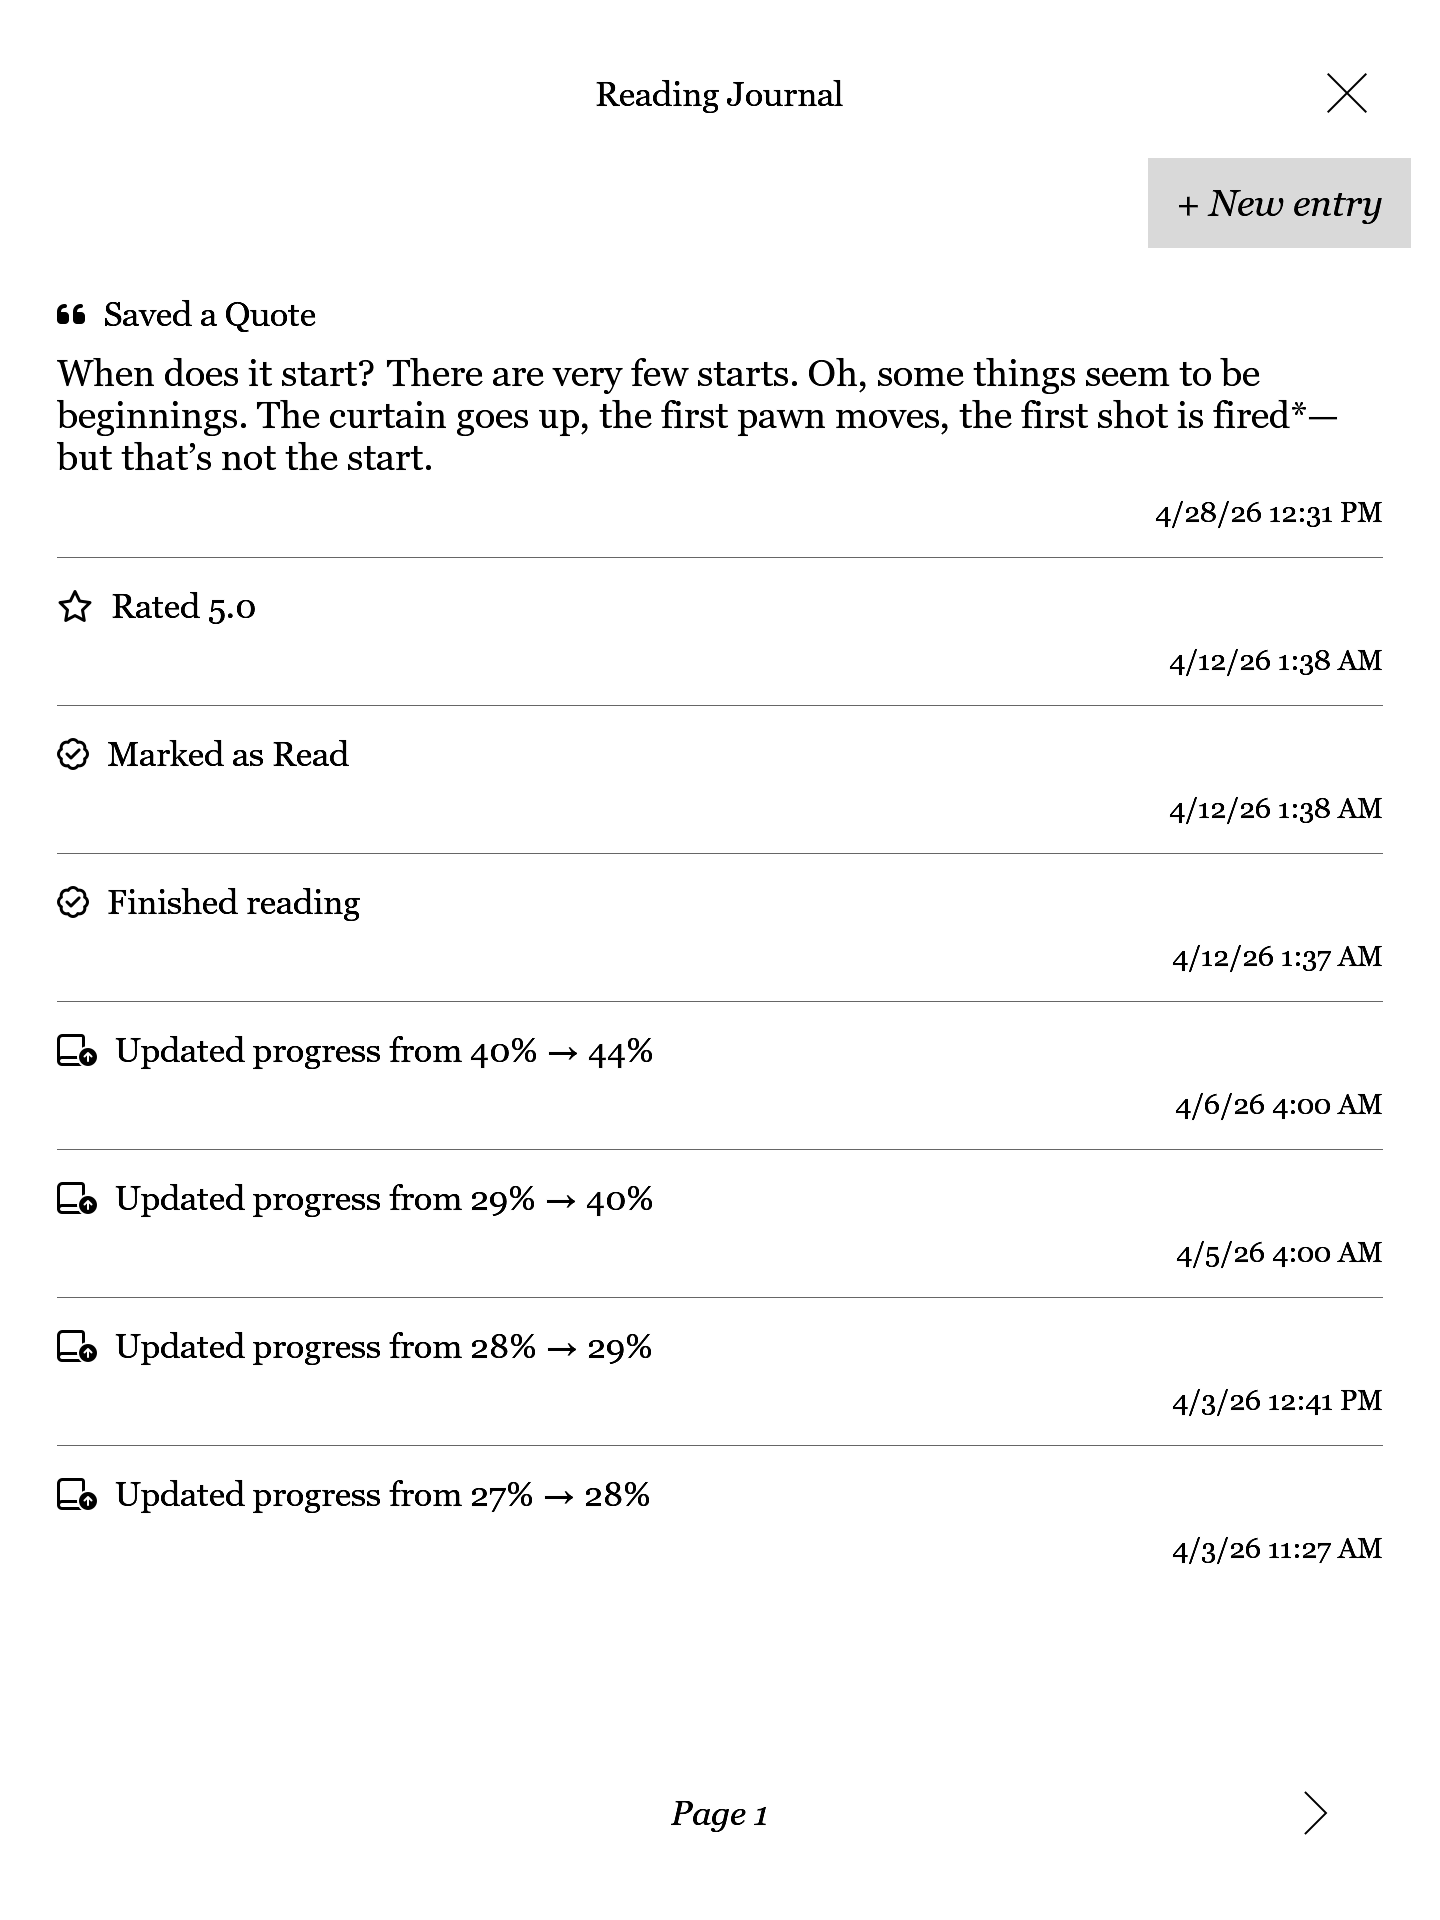
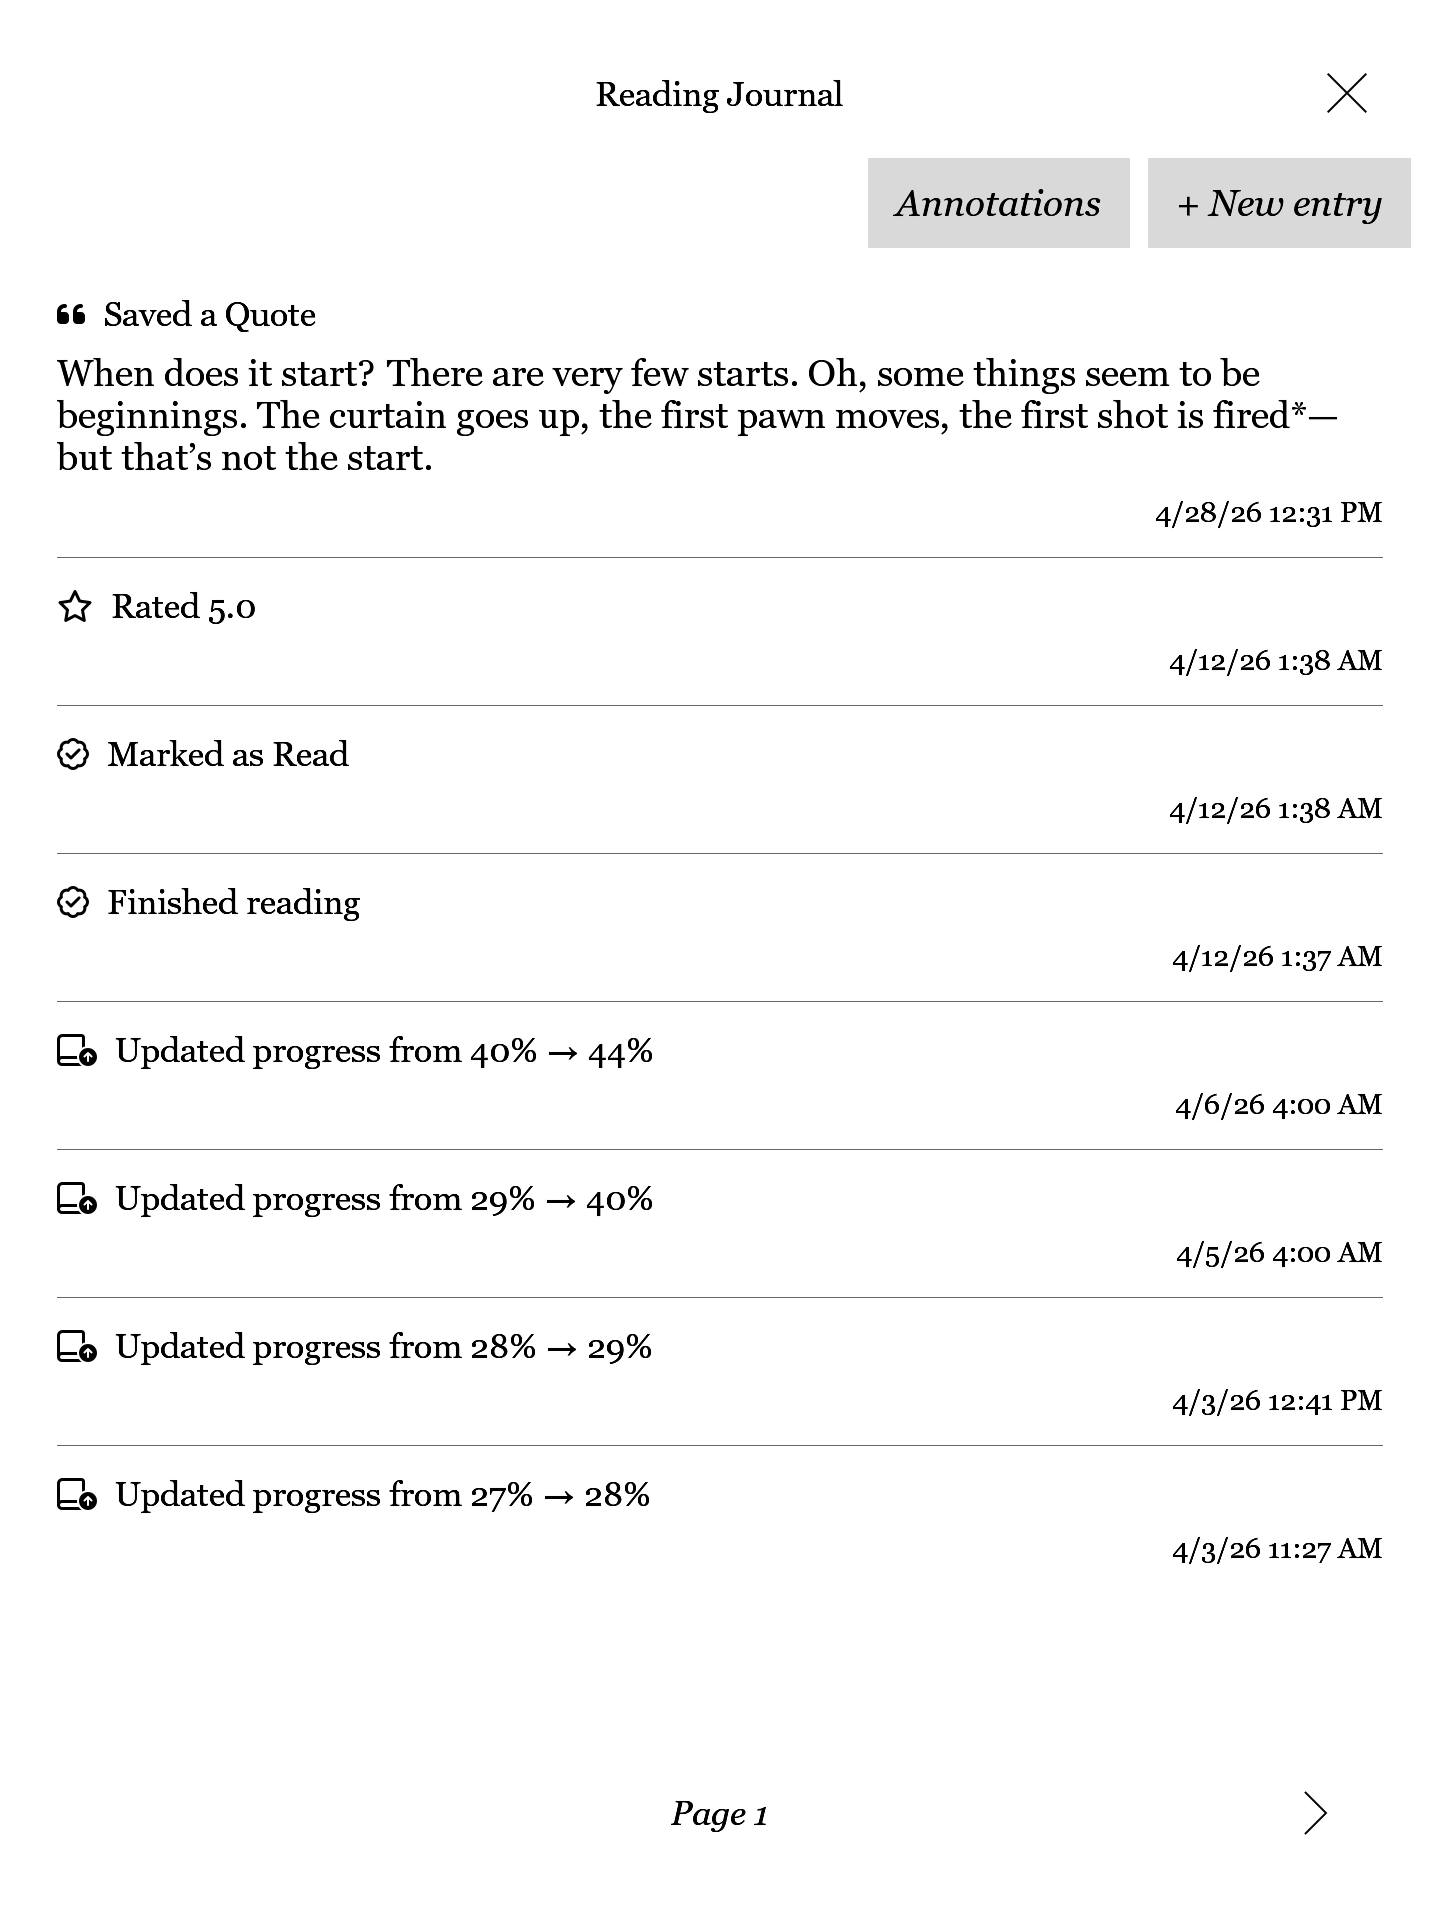
Update README.md

Changed region(s): [[0.5938, 0.0625, 0.8125, 0.1562]]

diff --git a/README.md b/README.md
@@ -13,8 +13,8 @@ Thanks to **pgaskin** for the [NickelHook](https://github.com/pgaskin/NickelHook
 
 **Warning: Firmware version 5.x is not supported yet.**
 
-<img src="https://codeberg.org/StrayRose/NickelHardcover/raw/branch/main/screenshots/syncing.png" alt="Syncing with hardcover tooltip" width="32%"> <img src="https://codeberg.org/StrayRose/NickelHardcover/raw/branch/main/screenshots/review.png" alt="Review dialog" width="32%"> <img src="https://codeberg.org/StrayRose/NickelHardcover/raw/branch/main/screenshots/journal.png" alt="Reading journal dialog" width="32%">
-<img src="https://codeberg.org/StrayRose/NickelHardcover/raw/branch/main/screenshots/menu.png?" alt="NickelHardcover menu" width="24%"> <img src="https://codeberg.org/StrayRose/NickelHardcover/raw/branch/main/screenshots/status.png" alt="Reading status menu" width="24%"> <img src="https://codeberg.org/StrayRose/NickelHardcover/raw/branch/main/screenshots/linking.png" alt="Manually linking dialog" width="24%"> <img src="https://codeberg.org/StrayRose/NickelHardcover/raw/branch/main/screenshots/settings.png" alt="Settings dialog" width="24%">
+<img src="https://codeberg.org/StrayRose/NickelHardcover/raw/branch/main/screenshots/syncing.png" alt="Syncing with hardcover" width="24%"> <img src="https://codeberg.org/StrayRose/NickelHardcover/raw/branch/main/screenshots/review.png" alt="Reviewing book" width="24%"> <img src="https://codeberg.org/StrayRose/NickelHardcover/raw/branch/main/screenshots/journal.png" alt="Reading journal" width="24%"> <img src="https://codeberg.org/StrayRose/NickelHardcover/raw/branch/main/screenshots/new-journal.png" alt="New reading journal note" width="24%">
+<img src="https://codeberg.org/StrayRose/NickelHardcover/raw/branch/main/screenshots/menu.png?" alt="NickelHardcover menu" width="20%"> <img src="https://codeberg.org/StrayRose/NickelHardcover/raw/branch/main/screenshots/status.png" alt="Reading status menu" width="20%"> <img src="https://codeberg.org/StrayRose/NickelHardcover/raw/branch/main/screenshots/linking.png" alt="Manually linking book" width="20%"> <img src="https://codeberg.org/StrayRose/NickelHardcover/raw/branch/main/screenshots/linking-edition.png" alt="Manually linking edition" width="20%"> <img src="https://codeberg.org/StrayRose/NickelHardcover/raw/branch/main/screenshots/settings.png" alt="Settings" width="24%">
 
 ## Features
 
@@ -95,9 +95,7 @@ While a book is open, you should find a new menu on the top right where all the 
 
 ### Linking a Hardcover book
 
-NickelHardcover attempts to determine which book to update on Hardcover using the ISBN of the open book. If that fails, or you would like more control, the "Manually link book” menu option allows you to manually select which book to update. The edition of the active read can be changed on the Hardcover book page under the description.
-
-<img src="https://codeberg.org/StrayRose/NickelHardcover/raw/branch/main/screenshots/edition.png" alt="Changing edition" width="400">
+NickelHardcover attempts to determine which book to update on Hardcover using the ISBN of the open book. If that fails, or you would like more control, the "Manually link book” menu option allows you to manually select which book or edition to update.
 
 ### Syncing
 